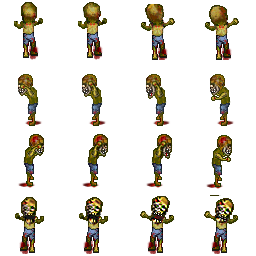
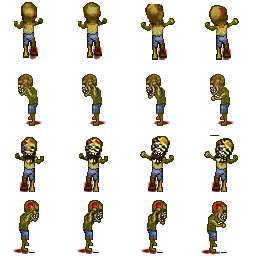
Zombie sprite fixed, death provisional animation for satan added

diff --git a/src/com/soc/utils/GraphicsLoader.java b/src/com/soc/utils/GraphicsLoader.java
@@ -203,7 +203,7 @@ public class GraphicsLoader {
 		
 		TextureRegion[][] tmp = TextureRegion.split(load("zombie-attack.png"), 64, 64);
 		for(int i = 0; i < tmp.length; i++){
-	   		attack.animations[i]= new Animation(0.4f/tmp[i].length, tmp[i]);
+	   		attack.animations[i]= new Animation(1f/tmp[i].length, tmp[i]);
 	   	}
 		tmp = TextureRegion.split(load("zombie-walk.png"), 64, 64);
 		for(int i = 0; i < tmp.length; i++){
@@ -267,6 +267,7 @@ public class GraphicsLoader {
 		DirectionalAnimatedRenderer attack = new DirectionalAnimatedRenderer(false);
 		DirectionalStaticRenderer idle = new DirectionalStaticRenderer();
 		DirectionalAnimatedRenderer movement= new DirectionalAnimatedRenderer(true);
+		AnimatedRenderer death = new AnimatedRenderer(false);
 		
 		character.renderers = new Renderer[State.STATENUM];
 		attack.ox = -0;
@@ -285,9 +286,20 @@ public class GraphicsLoader {
 	   		movement.animations [i]= new Animation(1f/tmp[i].length, tmp[i]);
 	   		idle.sprites[i] = tmp[i][0];
 	   	}
-
+		tmp = TextureRegion.split(load("ballista-death.png"), 128, 64);
+        TextureRegion [] deathFrames = new TextureRegion[tmp.length * tmp[0].length];
+        int index = 0;
+        for (int i = 0; i < tmp.length; i++) {
+                for (int j = 0; j < tmp[0].length; j++) {
+                        deathFrames[index++] = tmp[i][j];
+                }
+        }
+        //0.4f duration of the whole animation so divided in the total of frames.
+	    death.animation = new Animation(1f/deathFrames.length, deathFrames);
+	    character.deathTime=1f;
 		character.renderers[State.IDLE] = idle;
 		character.renderers[State.WALK] = movement;
+		character.renderers[State.DYING] = death;
 		character.renderers[State.ATTACK] = attack;
 	}
 	

diff --git a/src/com/soc/core/EntityFactory.java b/src/com/soc/core/EntityFactory.java
@@ -188,7 +188,7 @@ public class EntityFactory {
 		e.addComponent(new Velocity(0,0,100));
 		e.addComponent(new Bounds(64, 64));
 		e.addComponent(new State(1));
-		e.addComponent(new Attack(new HarmfulEnemyProcessor(), 20));
+		e.addComponent(new Attack(new HarmfulEnemyProcessor(), 1));
 		e.addComponent(new Feet(30, 15));
 		e.addComponent(new Enemy(1000, 5, new ZombiAI()));
 		e.addComponent(new Stats(
